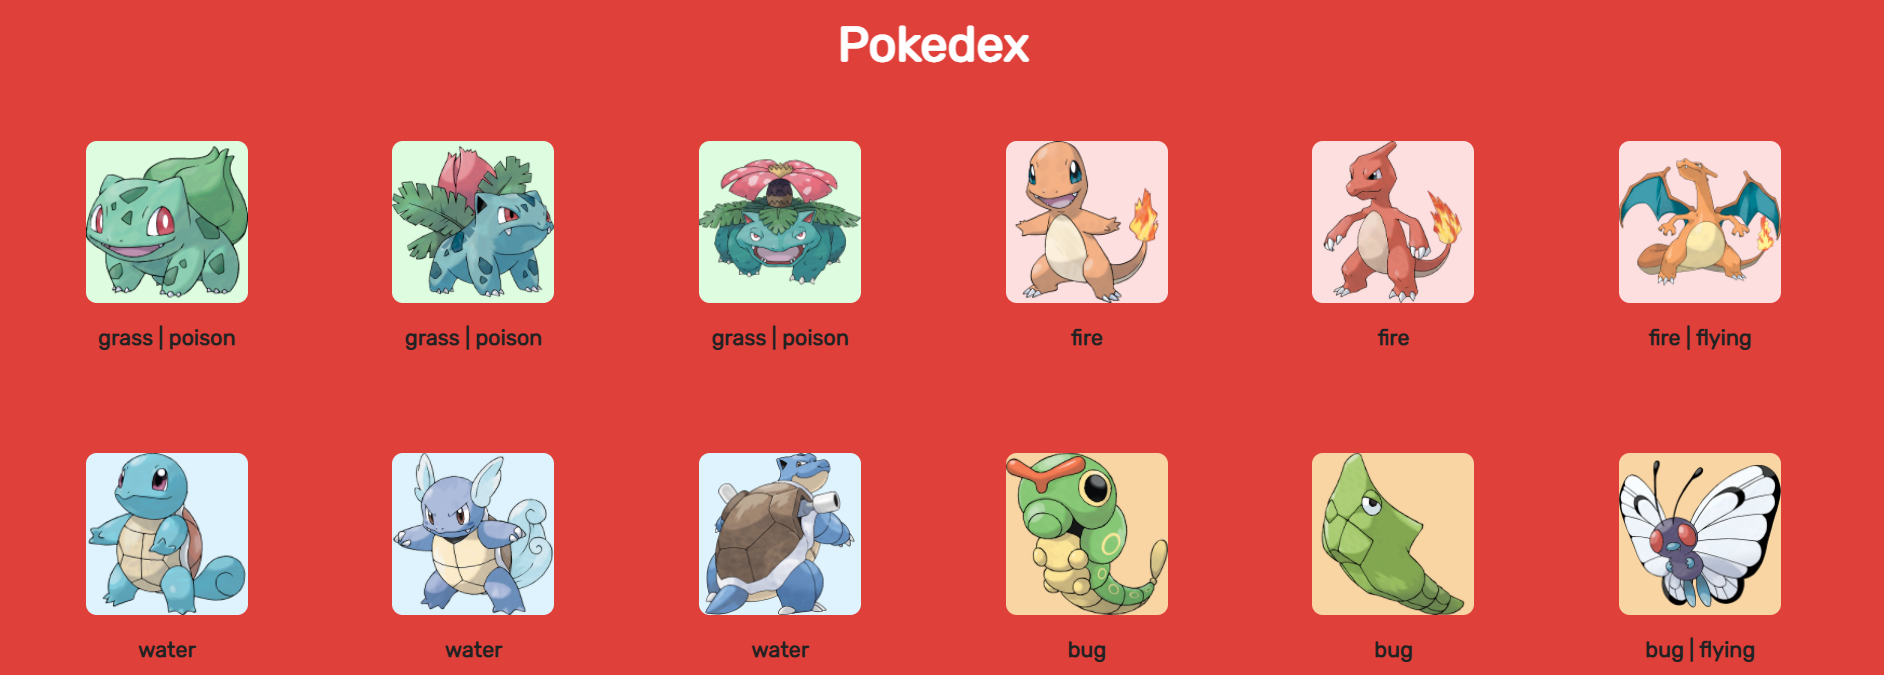
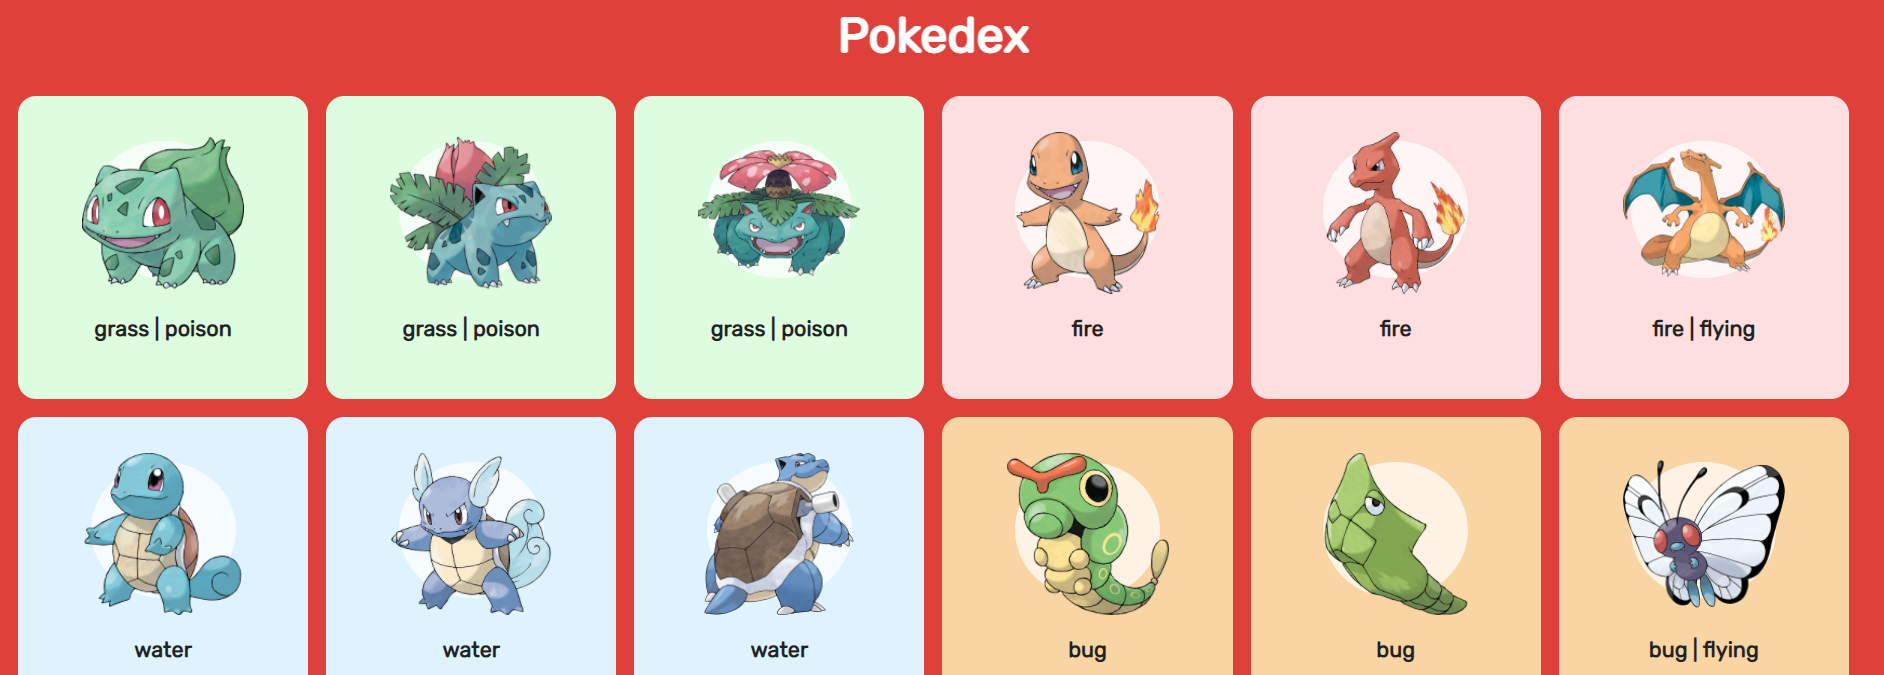
Refatoring Js

diff --git a/app.js b/app.js
@@ -1,30 +1,32 @@
-const fetchPokemon = () => {
-    const getPokemonUrl = id => `https://pokeapi.co/api/v2/pokemon/${id}`
-    
-    const pokemonPromises = []
-    for (let i = 1; i <= 150; i++) {
-        pokemonPromises.push(fetch(getPokemonUrl(i)).then(response => response.json()))
-    }
+const getPokemonUrl = (id) => `https://pokeapi.co/api/v2/pokemon/${id}`;
 
-    Promise.all(pokemonPromises)
-        .then(pokemons => {
-            const lisPokemons = pokemons.reduce((accumulator, pokemon) => {
-                const types = pokemon.types.map(typeInfo => typeInfo.type.name)
-              
-                accumulator += `
-                <li class="card">
-                    <img class="card-image ${types[0]} alt="${pokemon.name} src="https://pokeres.bastionbot.org/images/pokemon/${pokemon.id}.png" />
-                    <h2 class="card-title>${pokemon.id}. ${pokemon.name}</h2>
-                    <p class="card-subtitle>${types.join(' | ')}</p>                
-                </li>
-                `
-                return accumulator
-            }, '')
-            
-            const ul = document.querySelector('[data-js="pokedex"]')
-          
-            ul.innerHTML = lisPokemons
-        })
-}
+const generatePokemonPromises = () =>
+  Array(150)
+    .fill()
+    .map((_, index) =>
+      fetch(getPokemonUrl(index + 1)).then((response) => response.json())
+    );
 
-fetchPokemon()
+const generateHTML = (pokemons) =>
+  pokemons.reduce((accumulator, { name, id, types }) => {
+    const elementTypes = types.map((typeInfo) => typeInfo.type.name);
+
+    accumulator += `
+        <li class="card  ${elementTypes[0]}">
+            <img class="card-image alt="${name} src="https://pokeres.bastionbot.org/images/pokemon/${id}.png" />
+            <h2 class="card-title>${id}. ${name}</h2>
+            <p class="card-subtitle>${elementTypes.join(
+              " | "
+            )}</p>                
+        </li>
+        `;
+    return accumulator;
+  }, "");
+
+const insertPokemonsIntoPage = (pokemons) => {
+  const ul = document.querySelector('[data-js="pokedex"]');
+  ul.innerHTML = pokemons;
+};
+const pokemonPromises = generatePokemonPromises();
+
+Promise.all(pokemonPromises).then(generateHTML).then(insertPokemonsIntoPage);

diff --git a/style.css b/style.css
@@ -19,7 +19,7 @@ h1 {
 .pokedex {
 	display: grid;
 	grid-template-columns: repeat(auto-fit, minmax(320px, 1fr));
-	grid-gap: 10px;
+	grid-gap: 20px;
 	padding-inline-start: 0;
 }
 
